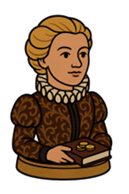
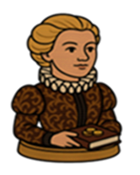
commit

diff --git a/css/styles.css b/css/styles.css
@@ -1387,8 +1387,8 @@ p {
 
 .dice-face {
     position: absolute;
-    width: 70px;
-    height: 70px;
+    width: 80px;
+    height: 80px;
     background-size: cover;
     backface-visibility: visible;
     transform-style: preserve-3d;
@@ -1555,9 +1555,8 @@ p {
 }
 
 img {
-    width: 120px;
-    height:  140px;
-    border-radius: 50%;
+    width: 110px;
+    height:  110px;
 }
 
 .rank-1 { 

diff --git a/js/endGameScreen.js b/js/endGameScreen.js
@@ -197,7 +197,7 @@ export function endGame() {
             // Now run the rest of the end game functions (victory celebration)
             showEndGameWithVictory(winners);
             
-        }, 600000);
+        }, 60000);
     } else {
         console.error('Could not find scores table elements');
     }

diff --git a/js/animations.js b/js/animations.js
@@ -37,7 +37,7 @@ import {
 import {drawCard } from './cards.js';
 import { markPlayerFinished } from './players.js';
 
-const debug_mode = true;
+const debug_mode = false;
 
 // Animation timing constants
 export const TIMING = {

diff --git a/js/playerCountScreen.js b/js/playerCountScreen.js
@@ -1,4 +1,4 @@
-const DEBUG_MODE = true;
+const DEBUG_MODE = false;
 
 // Player Count Screen - Enforces exactly 6 total players
 // Player Count Screen - Enforces exactly 6 total players
